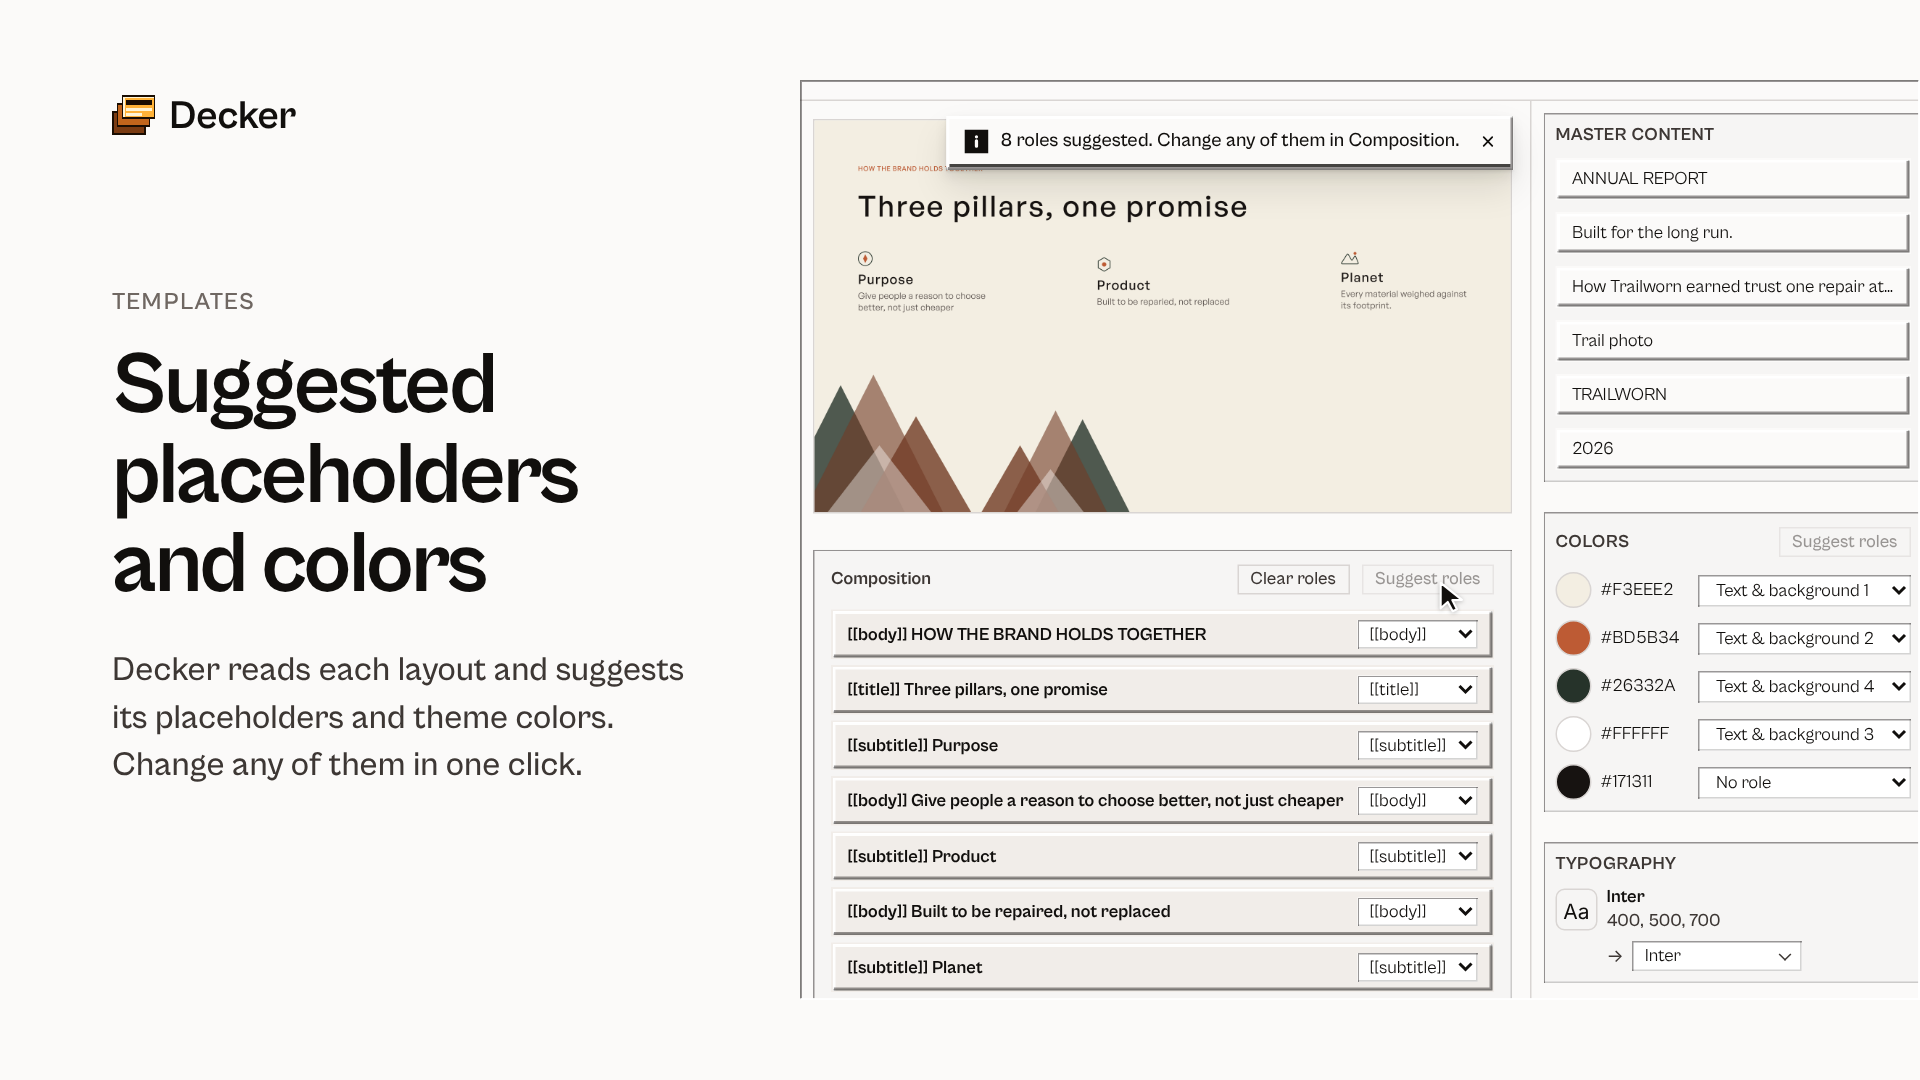
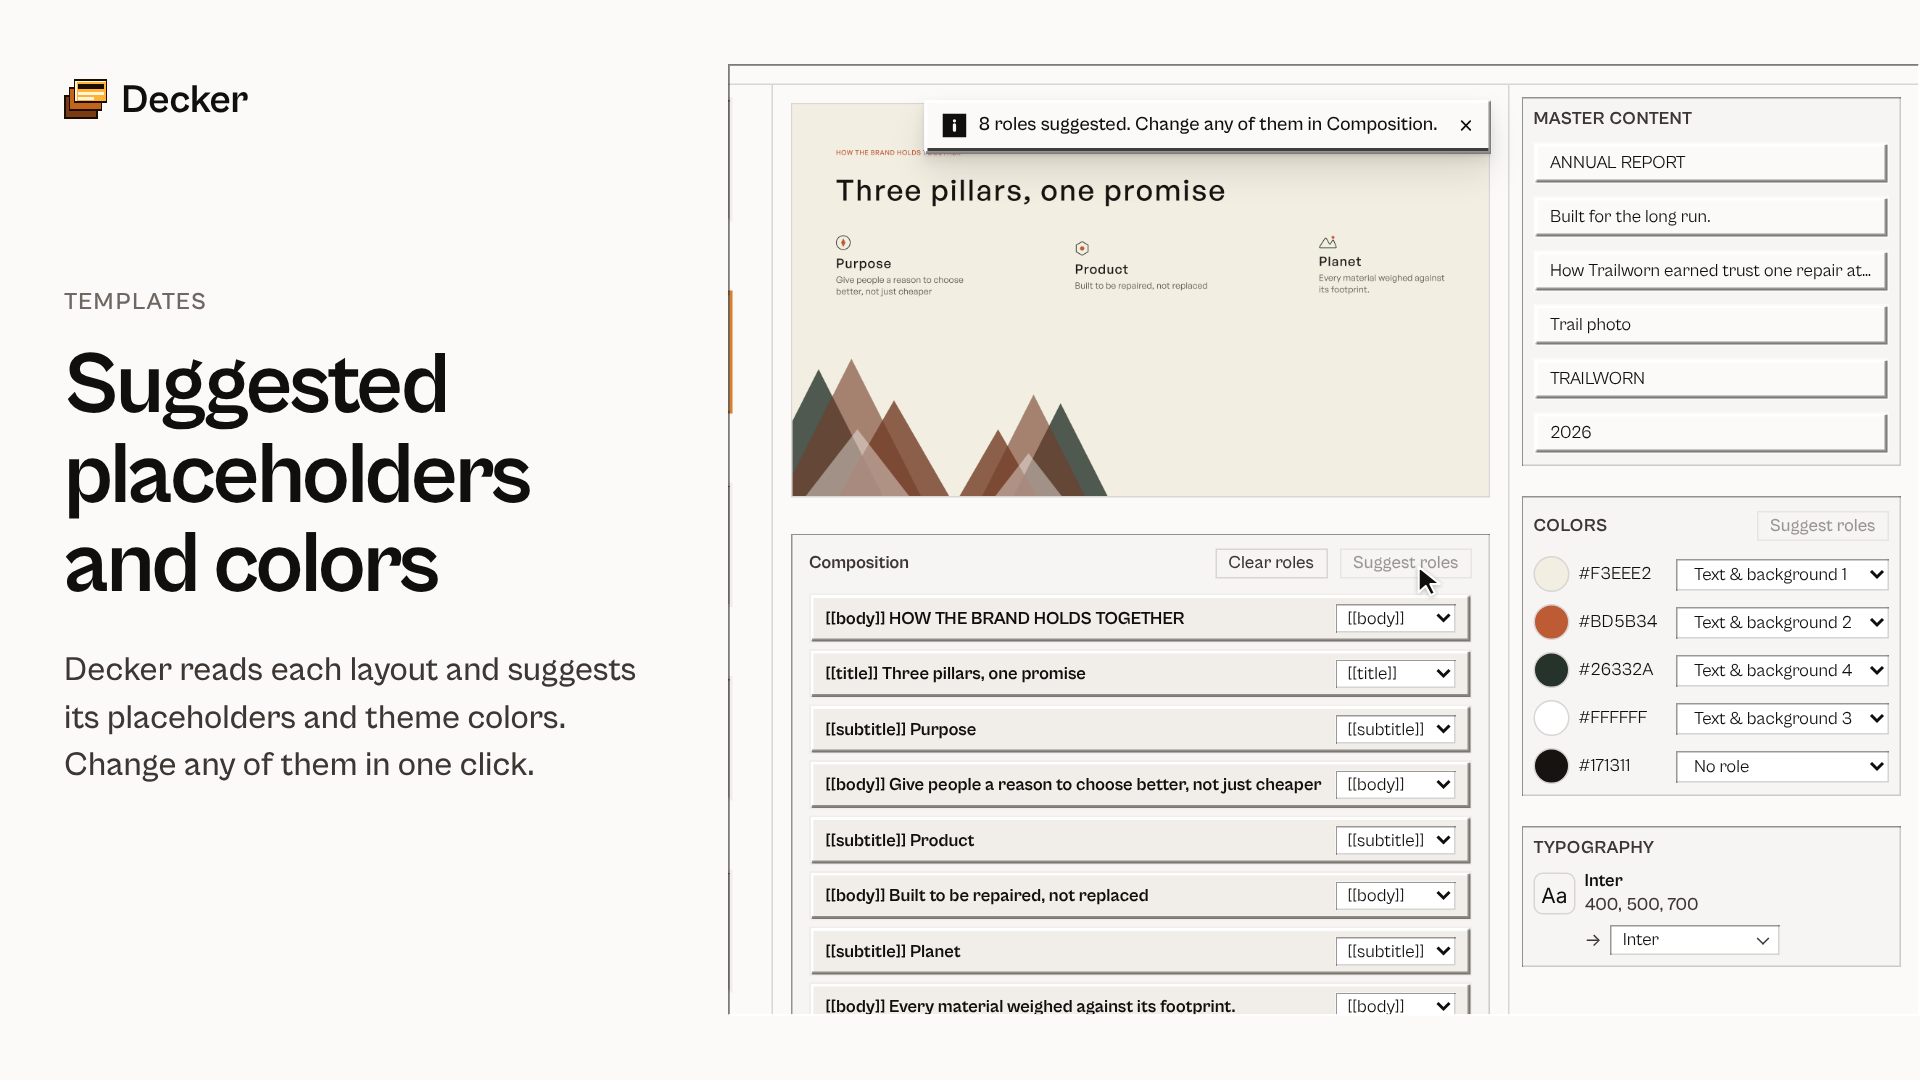
Figma Community : faute corrigee dans la slide Three pillars, marge gauche des visuels ramenee a 64px
"reparied" devient "repaired" dans assets/mockup slides/02-pillars.png.
Colonne de texte et logo a 64px du bord, comme la marge haute et basse
de la scene, qui sort par la droite.

Claude-Session: https://claude.ai/code/session_013ZNe8KJ7kDzLaZ2NtaGK9w

diff --git a/packages/backend/src/community/scenes.ts b/packages/backend/src/community/scenes.ts
@@ -363,15 +363,17 @@ body {
 
 /* Lockup du header du site, à l'échelle du visuel. */
 .brand {
-  position: absolute; left: 112px; top: 96px; z-index: 5;
+  position: absolute; left: 64px; top: 80px; z-index: 5;
   display: flex; align-items: center; gap: 14px;
   font-size: 40px; font-weight: var(--b-font-bold); letter-spacing: var(--b-tracking-tight); line-height: 1;
 }
 .brand__mark { height: 40px; width: auto; aspect-ratio: 27 / 25; flex: none; display: block; translate: 0 -1px; }
 
-/* Colonne de texte : surtitre, titre, une phrase. Centrée sur la hauteur. */
+/* Colonne de texte : surtitre, titre, une phrase. Centrée sur la hauteur,
+   à la marge de la scène (64px) : la scène sort par la droite, une marge
+   gauche plus large déséquilibrait le visuel. */
 .copy {
-  position: absolute; left: 112px; top: 0; bottom: 0; width: 600px;
+  position: absolute; left: 64px; top: 0; bottom: 0; width: 600px;
   display: flex; flex-direction: column; justify-content: center;
 }
 .eyebrow {
@@ -391,7 +393,7 @@ body {
 
 /* Scène : le puits en creux des cards du site, qui sort par la droite. */
 .stage {
-  position: absolute; left: 800px; top: 80px; bottom: 80px; right: 0;
+  position: absolute; left: 728px; top: 64px; bottom: 64px; right: 0;
   overflow: clip; background: var(--b-surface-muted);
 }
 .stage::after { content: ""; position: absolute; inset: 0; z-index: 30; box-shadow: var(--hyb-in); pointer-events: none; }
@@ -479,8 +481,8 @@ body {
 /* Même slide aux mêmes coordonnées de scène dans les deux moitiés : chacune
    n'en montre que sa part. */
 .split__slide { position: absolute; top: 160px; width: 960px; }
-.split--figma .split__slide { left: 80px; }
-.split--slides .split__slide { left: calc(80px - 100%); }
+.split--figma .split__slide { left: calc(100% - 480px); }
+.split--slides .split__slide { left: -480px; }
 .split--slides .slide { box-shadow: 0 1px 3px rgba(60, 64, 67, 0.3), 0 4px 8px 3px rgba(60, 64, 67, 0.15); }
 .split__line { position: absolute; z-index: 15; left: 50%; top: 0; bottom: 0; width: 3px; margin-left: -1.5px; background: var(--b-accent); }
 .split__line i { position: absolute; left: 50%; top: 86%; width: 36px; height: 36px; margin: -18px 0 0 -18px; border-radius: 50%; background: var(--b-accent); box-shadow: 0 0 0 5px var(--b-surface); }
@@ -662,7 +664,7 @@ export function scenes(pluginHtml: string): Scene[] {
     alt: 'Suggest roles in the Decker plugin: the Three pillars layout gets its title, subtitles and body texts in one click.',
     html: page(
       `${BRAND}${copy('Templates', 'Suggested placeholders and colors', 'Decker reads each layout and suggests its placeholders and theme colors. Change any of them in one click.')}
-      <div class="stage">${plugin({ x: -290, y: -180, w: 960, h: 1000, scale: 1.5 })}${cursorAt(0, 0)}</div>`,
+      <div class="stage">${plugin({ x: -240, y: -180, w: 960, h: 1000, scale: 1.5 })}${cursorAt(0, 0)}</div>`,
     ),
     async drive(ctx) {
       const f = await ctx.plugin();
@@ -684,7 +686,7 @@ export function scenes(pluginHtml: string): Scene[] {
     alt: 'The Settings window of the Decker plugin, showing the Google account the export lands in.',
     html: page(
       `${BRAND}${copy('Google access', 'Only what the export needs', 'Decker only touches the deck it creates for you, shows which account is connected, and keeps nothing after the export.')}
-      <div class="stage">${plugin({ x: -640, y: -380, scale: 2 })}</div>`,
+      <div class="stage">${plugin({ x: -604, y: -364, scale: 2 })}</div>`,
     ),
     async drive(ctx) {
       const f = await ctx.plugin();
